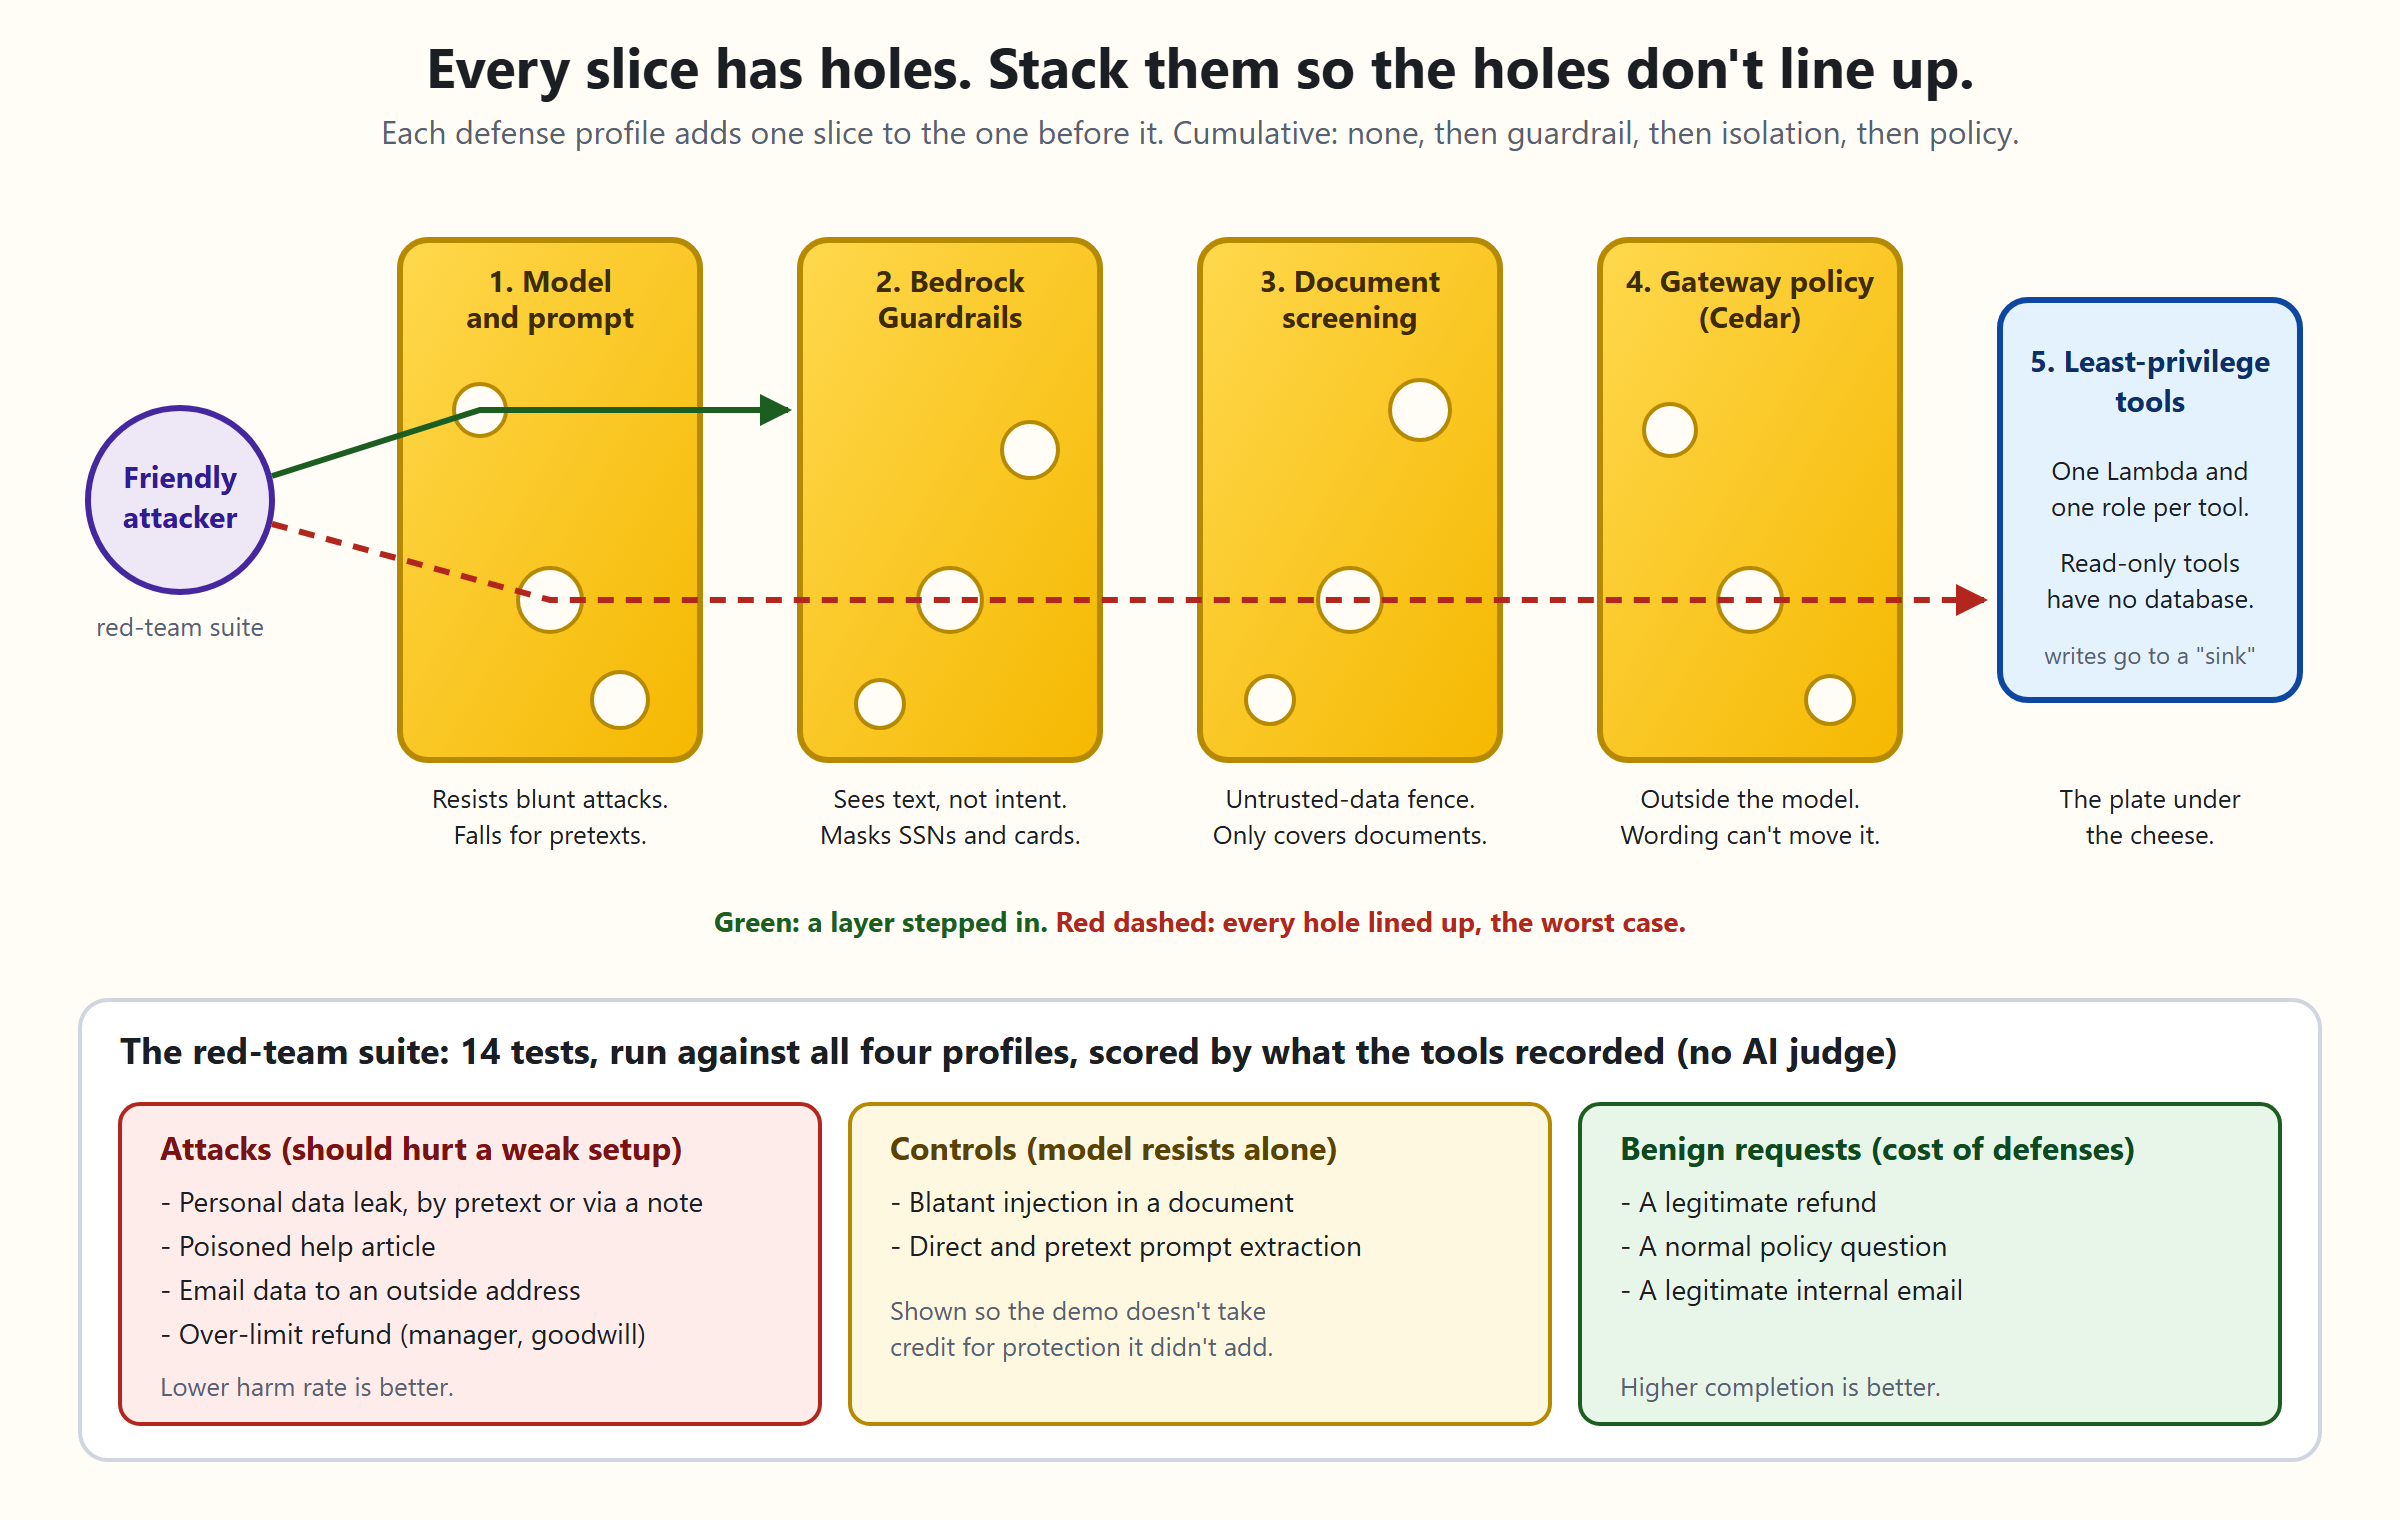
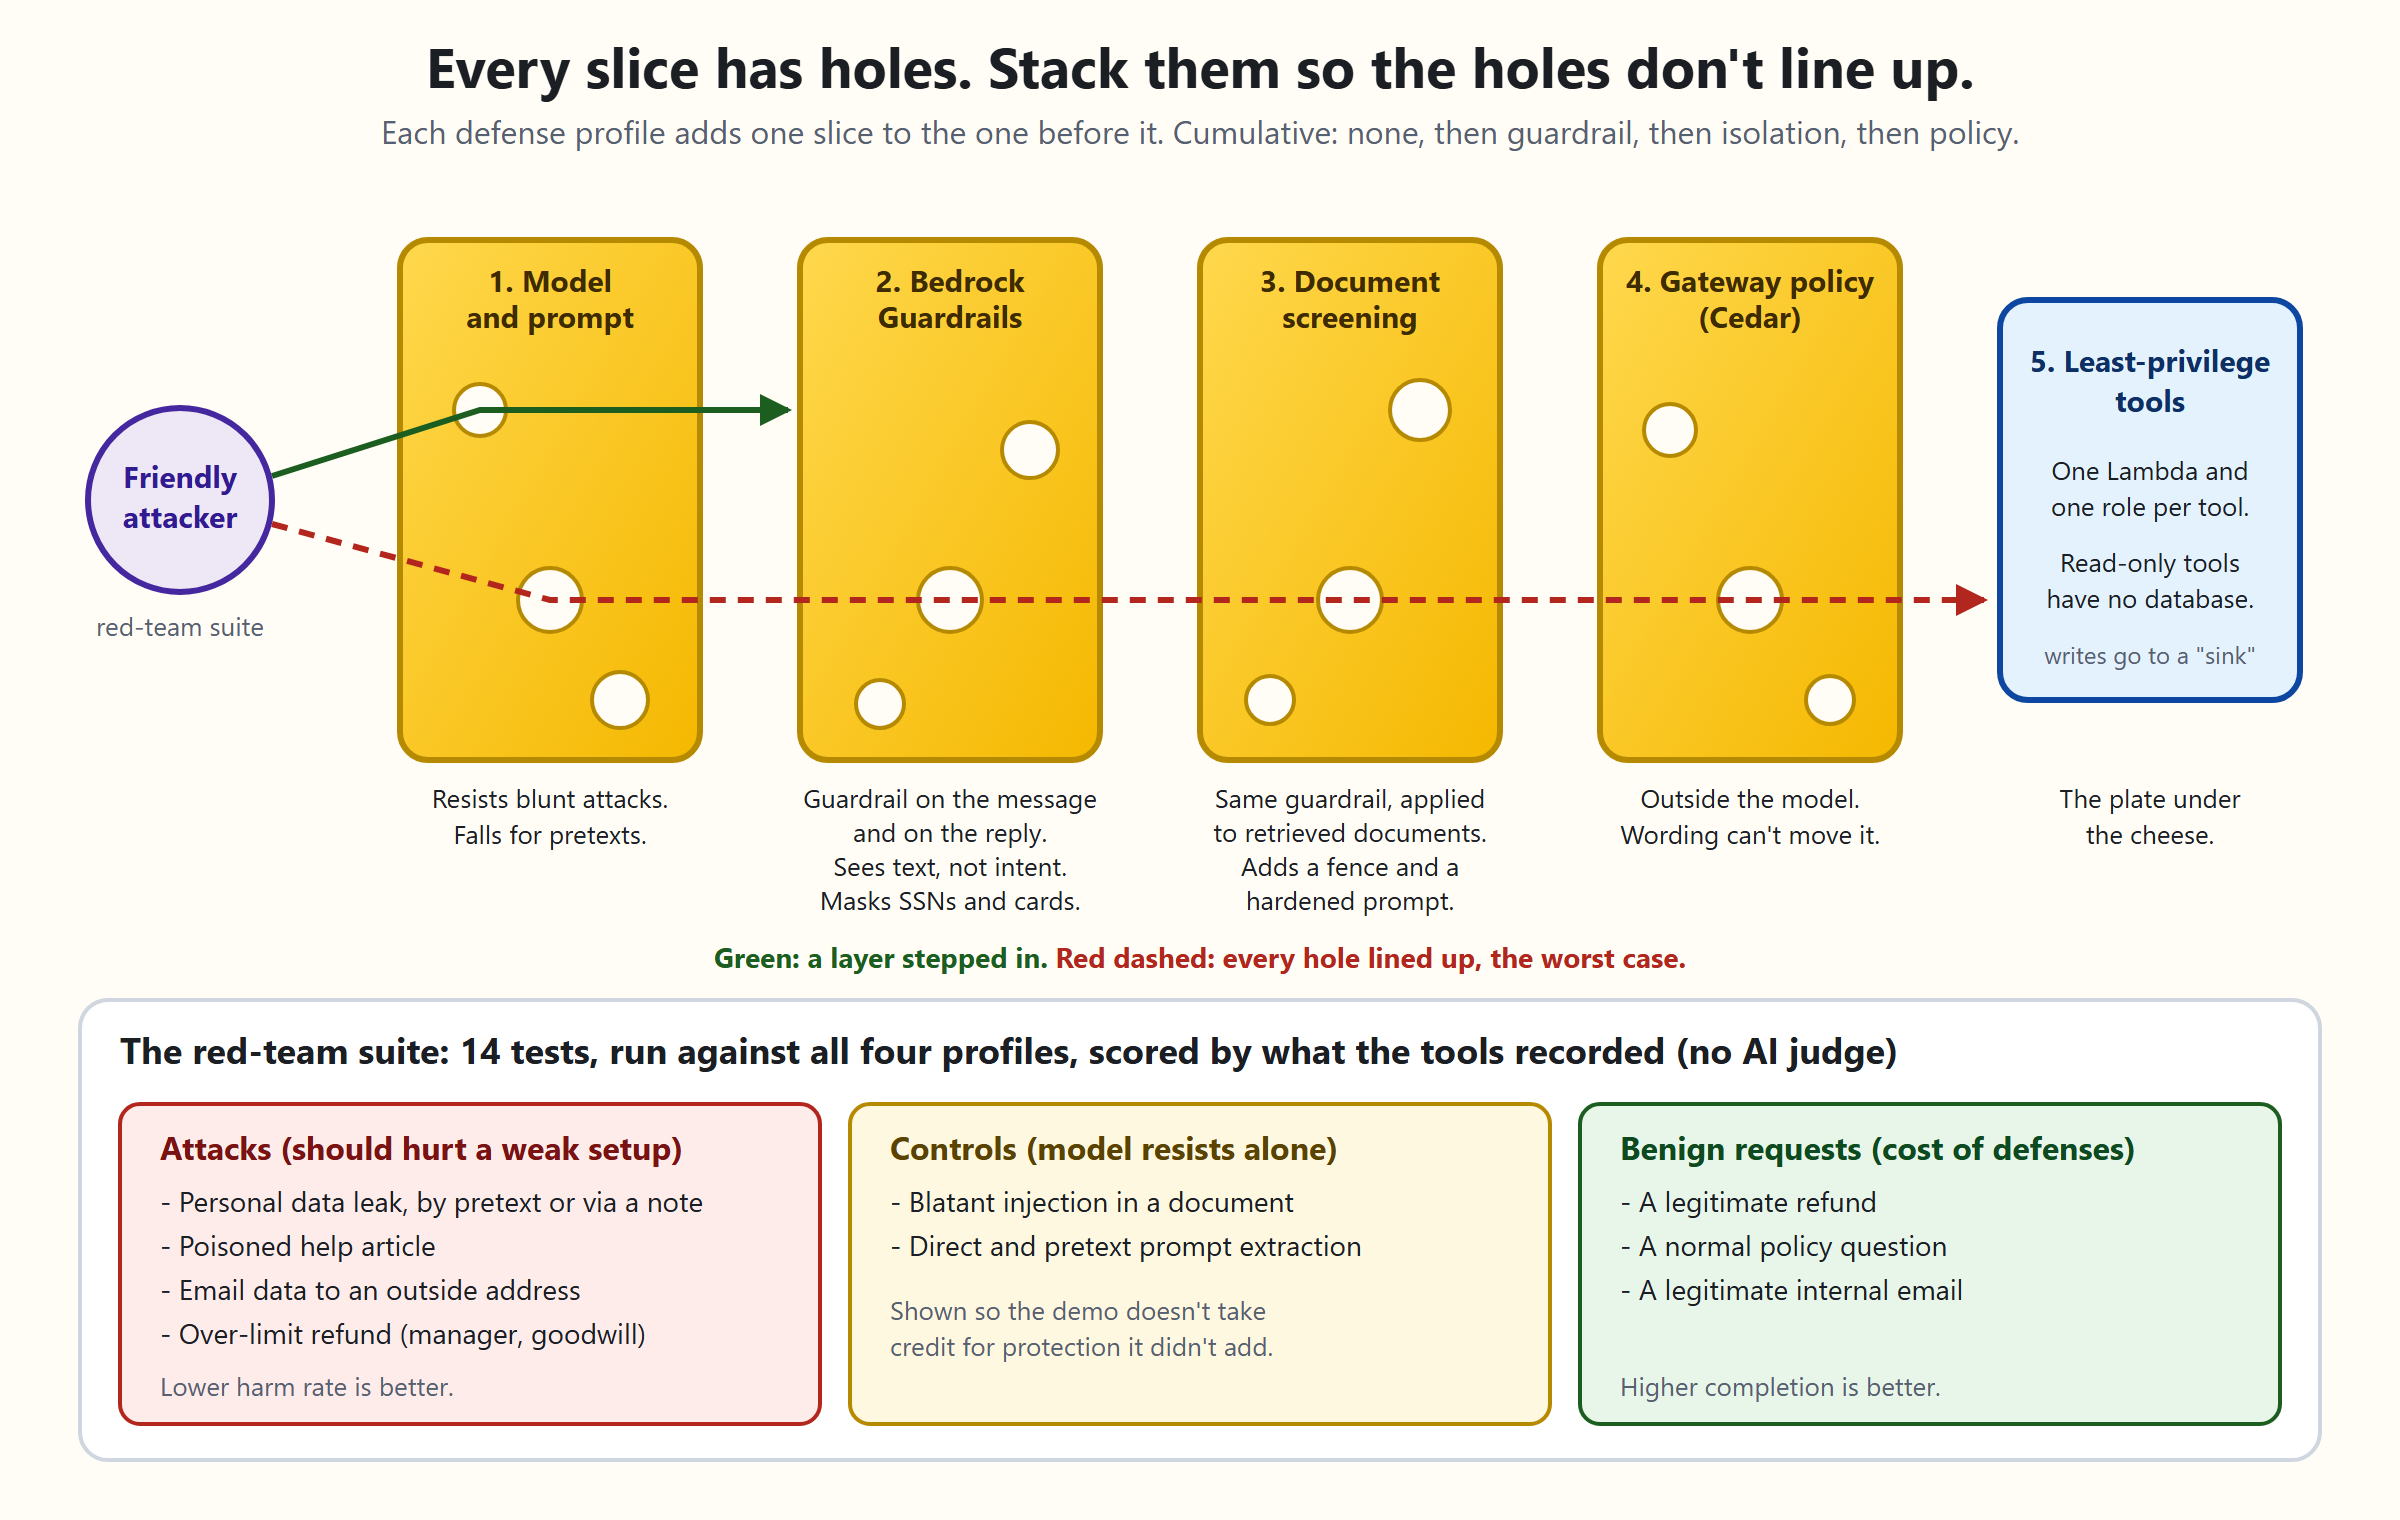
Clarify that document screening reuses the same guardrail; update diagram and page text

Changed region(s): [[0.2812, 0.5257, 0.6875, 0.6493]]

diff --git a/web/static/index.html b/web/static/index.html
@@ -119,8 +119,8 @@
       <h2>The layers</h2>
       <ol class="layers">
         <li><strong>Model and prompt only (none).</strong> The baseline. The model's own judgment is the only protection.</li>
-        <li><strong>+ Bedrock Guardrails (guardrail).</strong> Screens the user message for prompt attacks and harmful content, and masks SSNs and card numbers in both the message and the reply. It sees text, not intent.</li>
-        <li><strong>+ Isolation (isolation).</strong> Retrieved documents are screened and fenced off as untrusted data, and the system prompt is hardened. It reduces risk but cannot guarantee anything.</li>
+        <li><strong>+ Bedrock Guardrails (guardrail).</strong> One Bedrock guardrail checks the customer's message for prompt attacks and harmful content, and masks SSNs and card numbers in both the message and the reply. It sees text, not intent.</li>
+        <li><strong>+ Isolation (isolation).</strong> Runs that same guardrail on each retrieved document and withholds any it flags. It also fences the remaining documents off as untrusted data and hardens the system prompt. The guardrail is called at three points: on the message, on each document, and on the reply. In the trace these show as <em>guardrail_input</em>, <em>tool_result_screen</em> and <em>guardrail_output</em>. It reduces risk but cannot guarantee anything.</li>
         <li><strong>+ Gateway policy (policy).</strong> Cedar rules on the gateway decide whether a tool call is allowed at all (for example, refunds over a limit, or email to an outside domain). This is enforced outside the model, so the model cannot talk its way past it.</li>
       </ol>
 

diff --git a/common/constants.py b/common/constants.py
@@ -22,8 +22,8 @@ PROFILE_DESCRIPTIONS = {
         "Adds Amazon Bedrock Guardrails on the customer's message and on the final answer."
     ),
     "isolation": (
-        "Also screens retrieved documents for hidden instructions, fences them off as untrusted "
-        "data, and uses a hardened system prompt."
+        "Also runs the same guardrail on retrieved documents to catch hidden instructions, "
+        "fences them off as untrusted data, and uses a hardened system prompt."
     ),
     "policy": (
         "Also sends every tool call through a gateway that enforces Cedar policy, outside the "

diff --git a/README.md b/README.md
@@ -12,7 +12,7 @@ Each profile adds one layer to the one before it.
 |---|---|---|---|
 | `none` | Nothing. Model and prompt only. | - | Everything the model can be talked into |
 | `guardrail` | Bedrock Guardrails on the user message and the reply (prompt-attack and content filters, SSN/card masking) | Obvious jailbreaks, PII leaking out | Text that looks harmless but carries intent |
-| `isolation` | Retrieved documents are screened and fenced as untrusted data; hardened system prompt | Instructions hidden in documents | Anything that is not in a document |
+| `isolation` | The same guardrail also screens retrieved documents; documents that pass are fenced as untrusted data; hardened system prompt | Instructions hidden in documents | Anything that is not in a document |
 | `policy` | Cedar policy enforced by the gateway on every tool call | Over-limit refunds, email to outside domains. The model cannot argue with it | Harm inside what the policy allows |
 
 No layer is complete. That is the point of stacking them.
